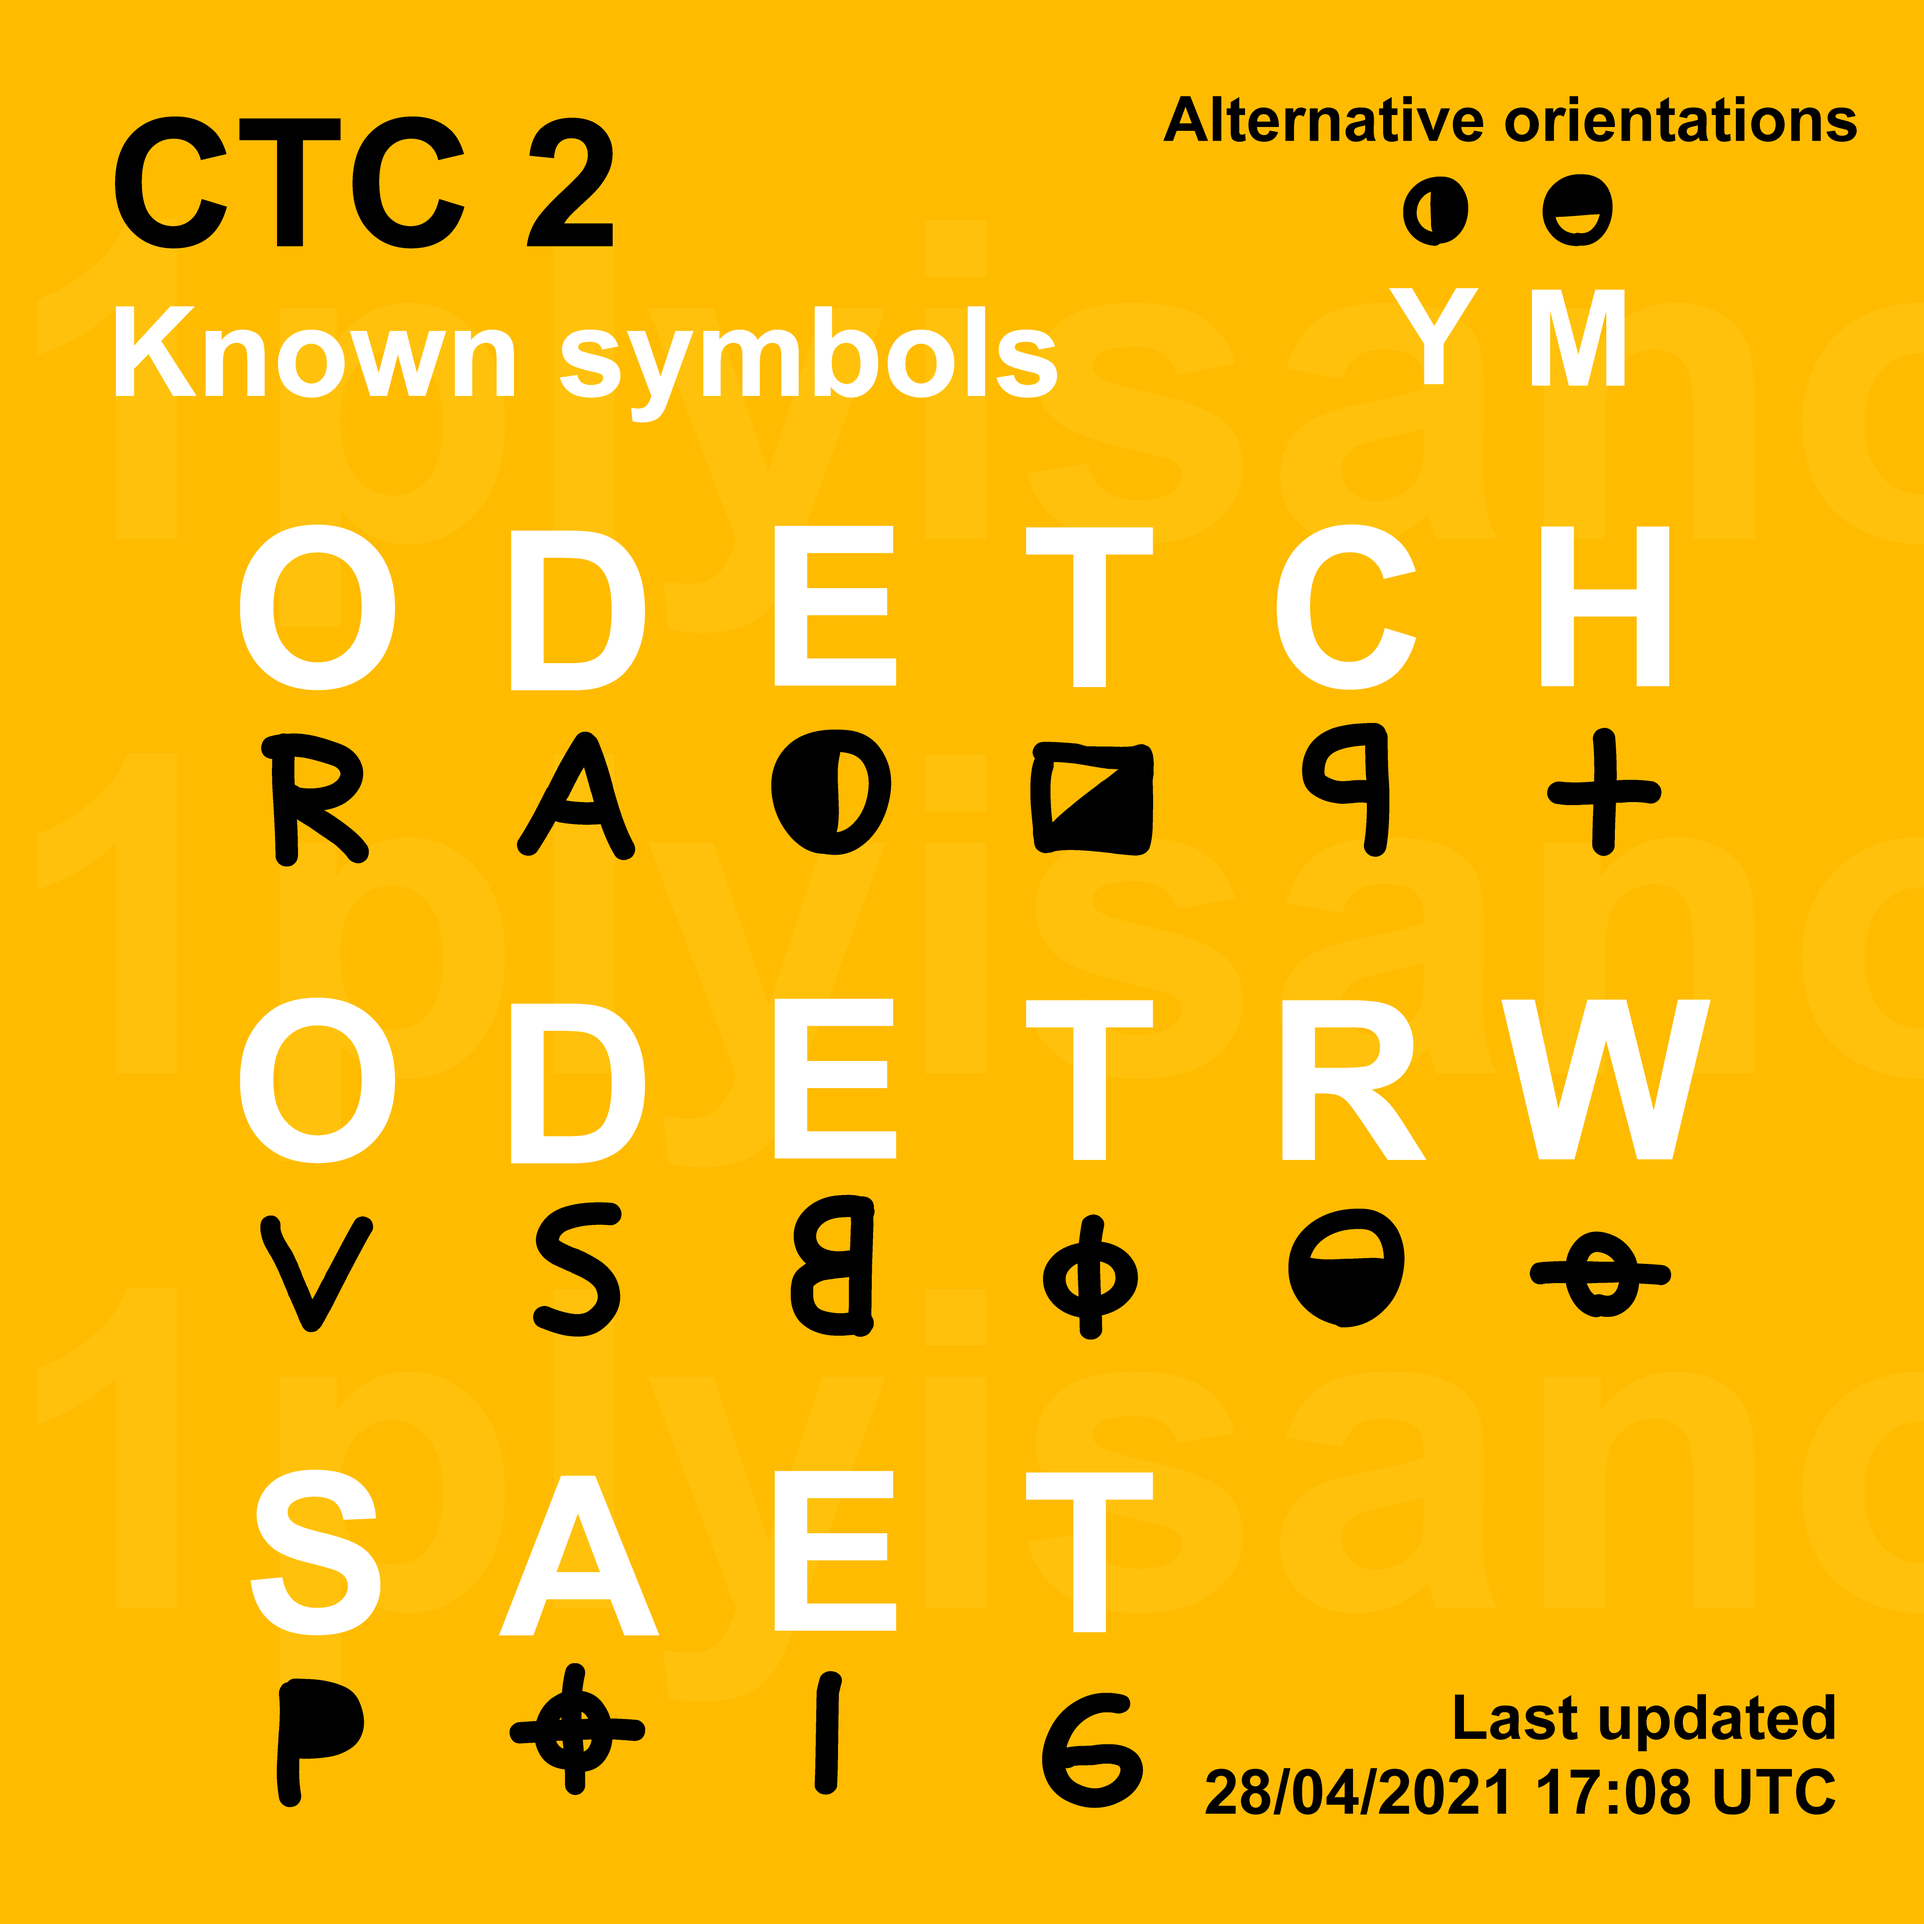
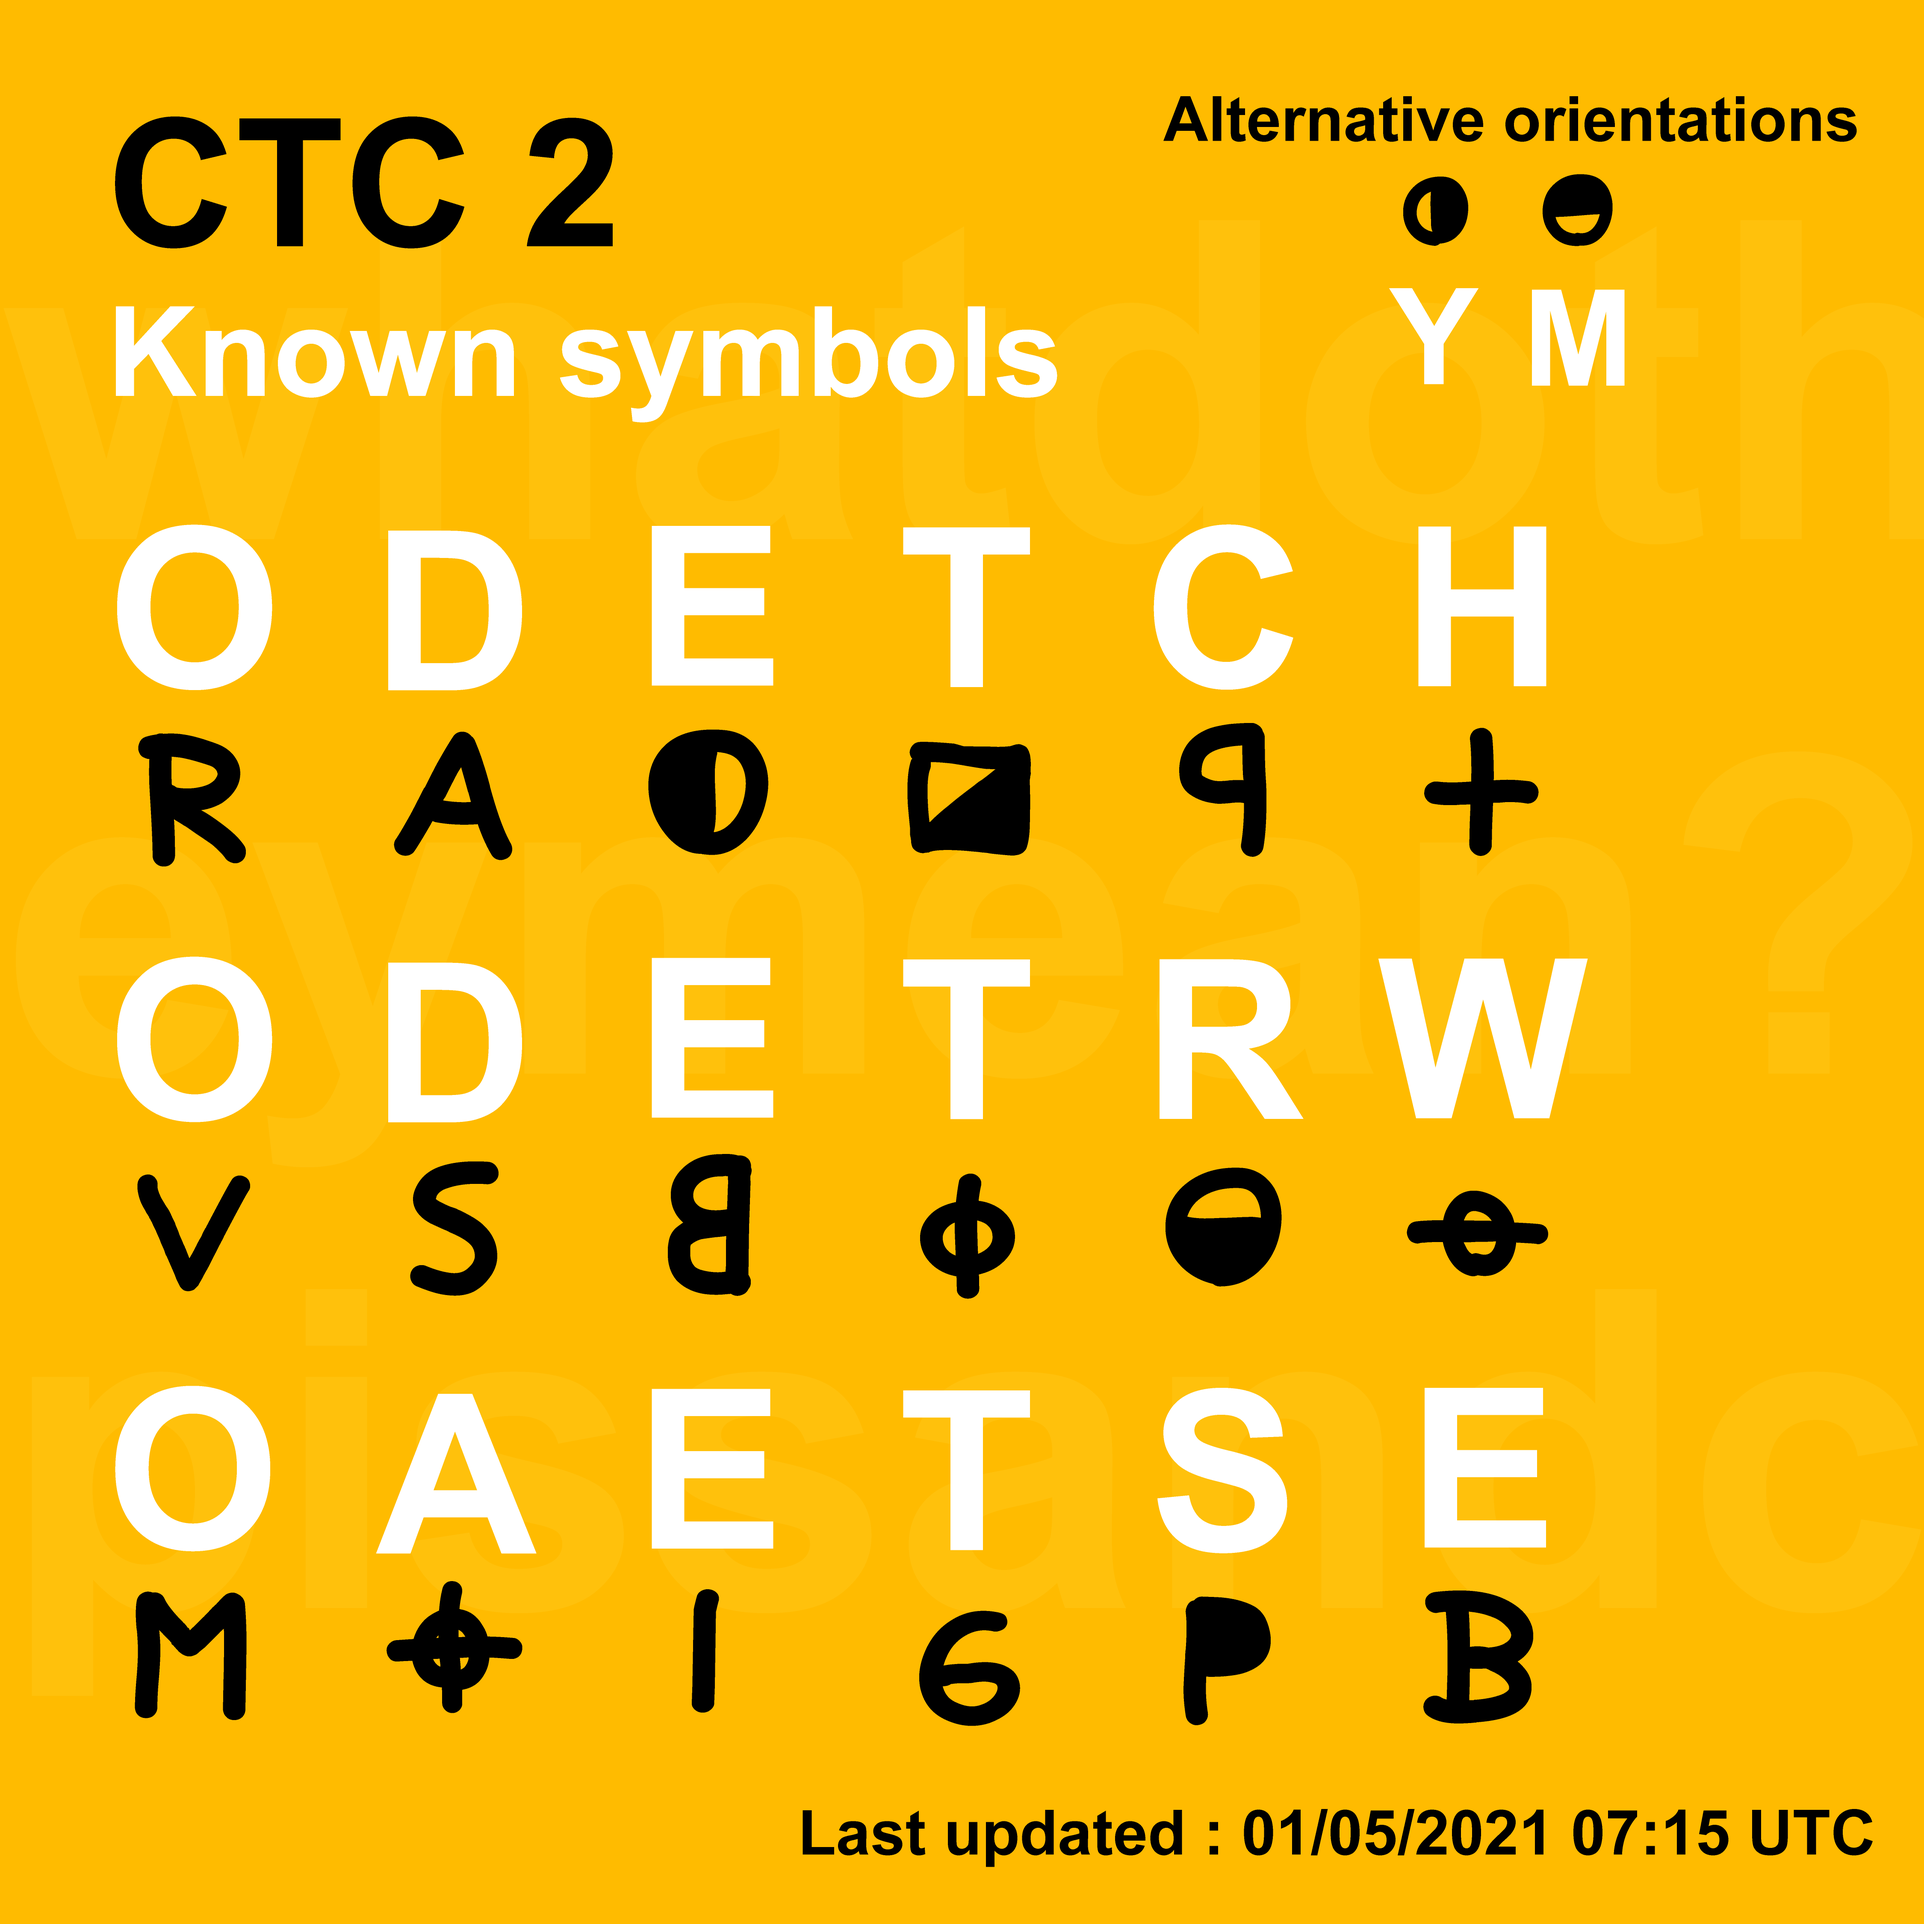
feeeeeeeeeeeat

Changed region(s): [[0.0622, 0.7156, 0.9644, 0.9644], [0.0622, 0.2489, 0.8711, 0.4667], [0.0622, 0.4978, 0.9022, 0.7156]]

diff --git a/README.md b/README.md
@@ -11,7 +11,7 @@ As of 30th April 2021, 069 has "confirmed" that we are still missing letters. Yo
 
 ![Missing confirmation](stillMissing.png)
 
-### Known characters: `ACDDEEEHOOORSTTTW`
+### Known characters: `ACDDEEEEHOOORSTTTW`
 
 ![Status](CTC2.png)
 
